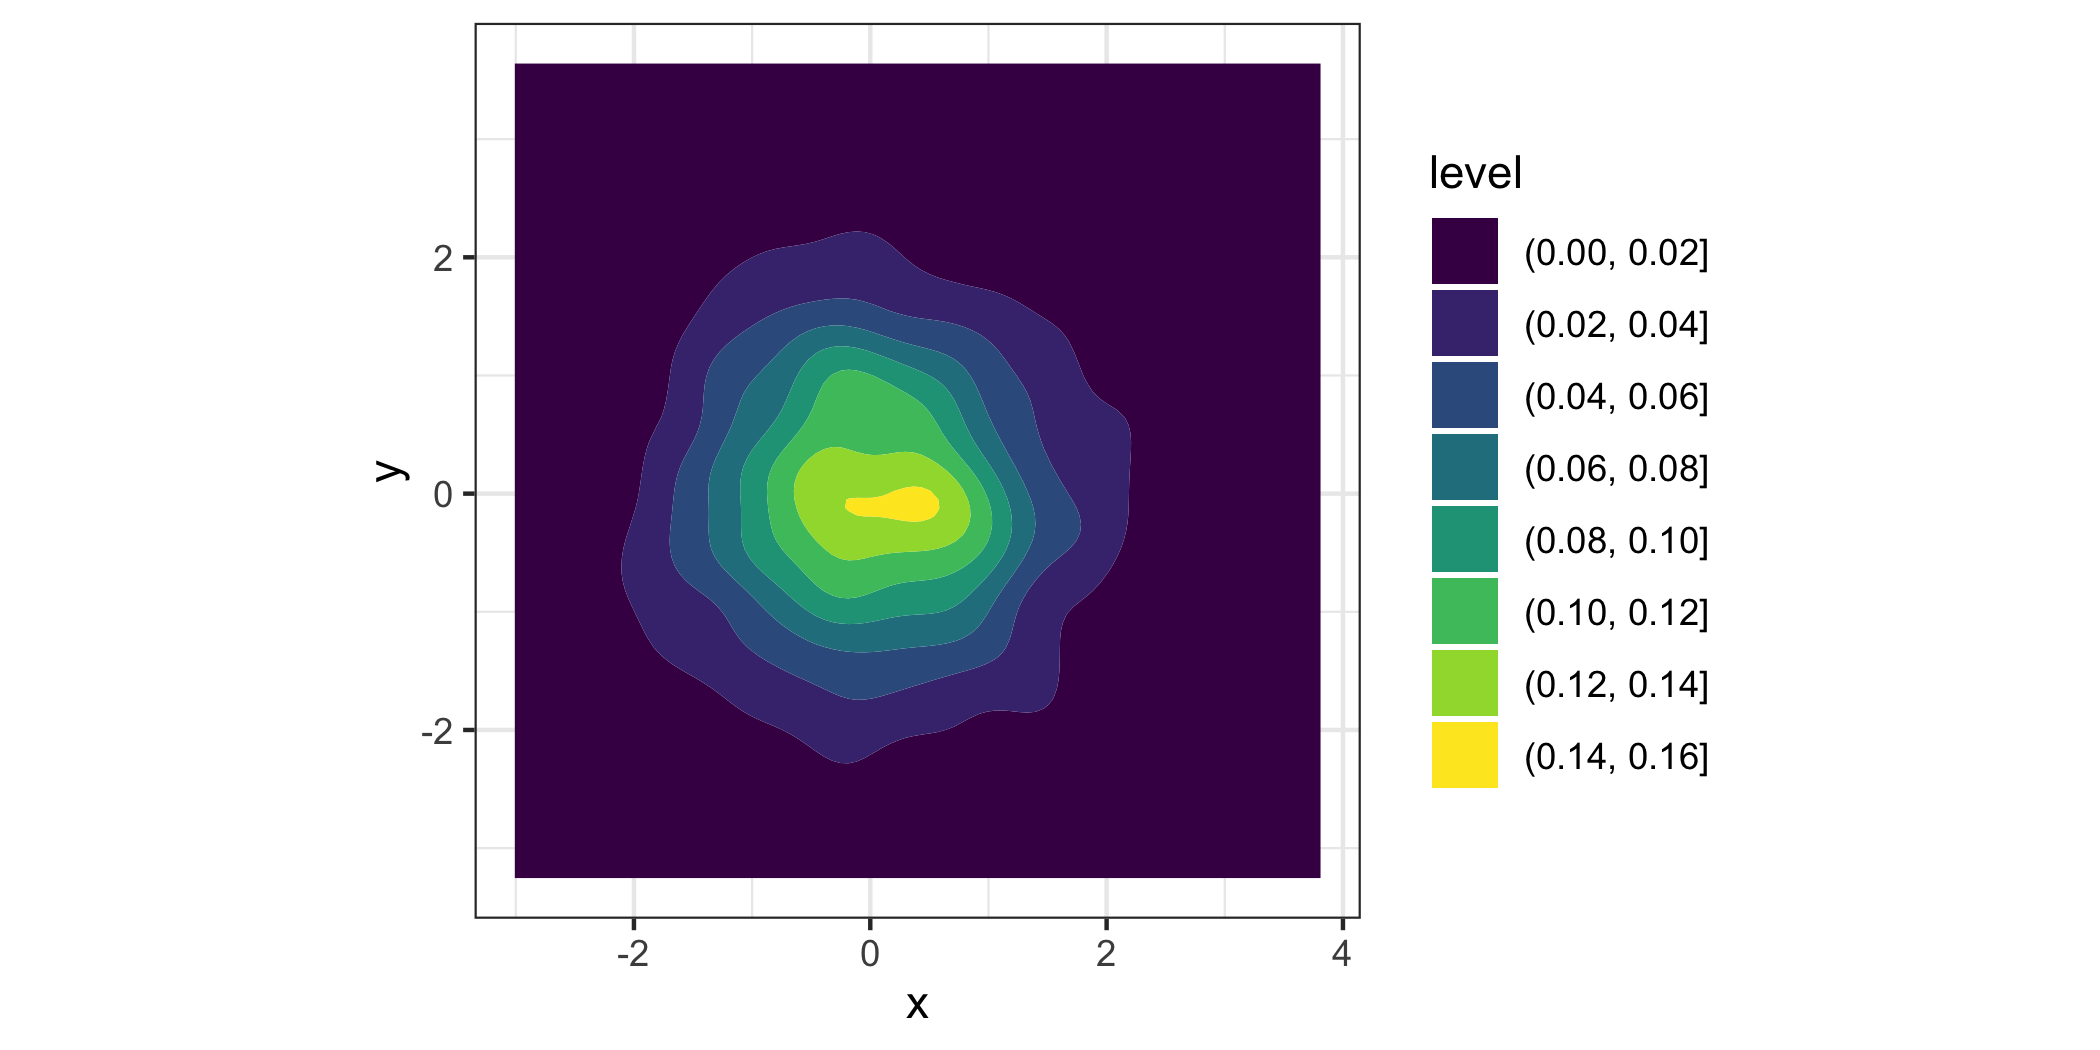
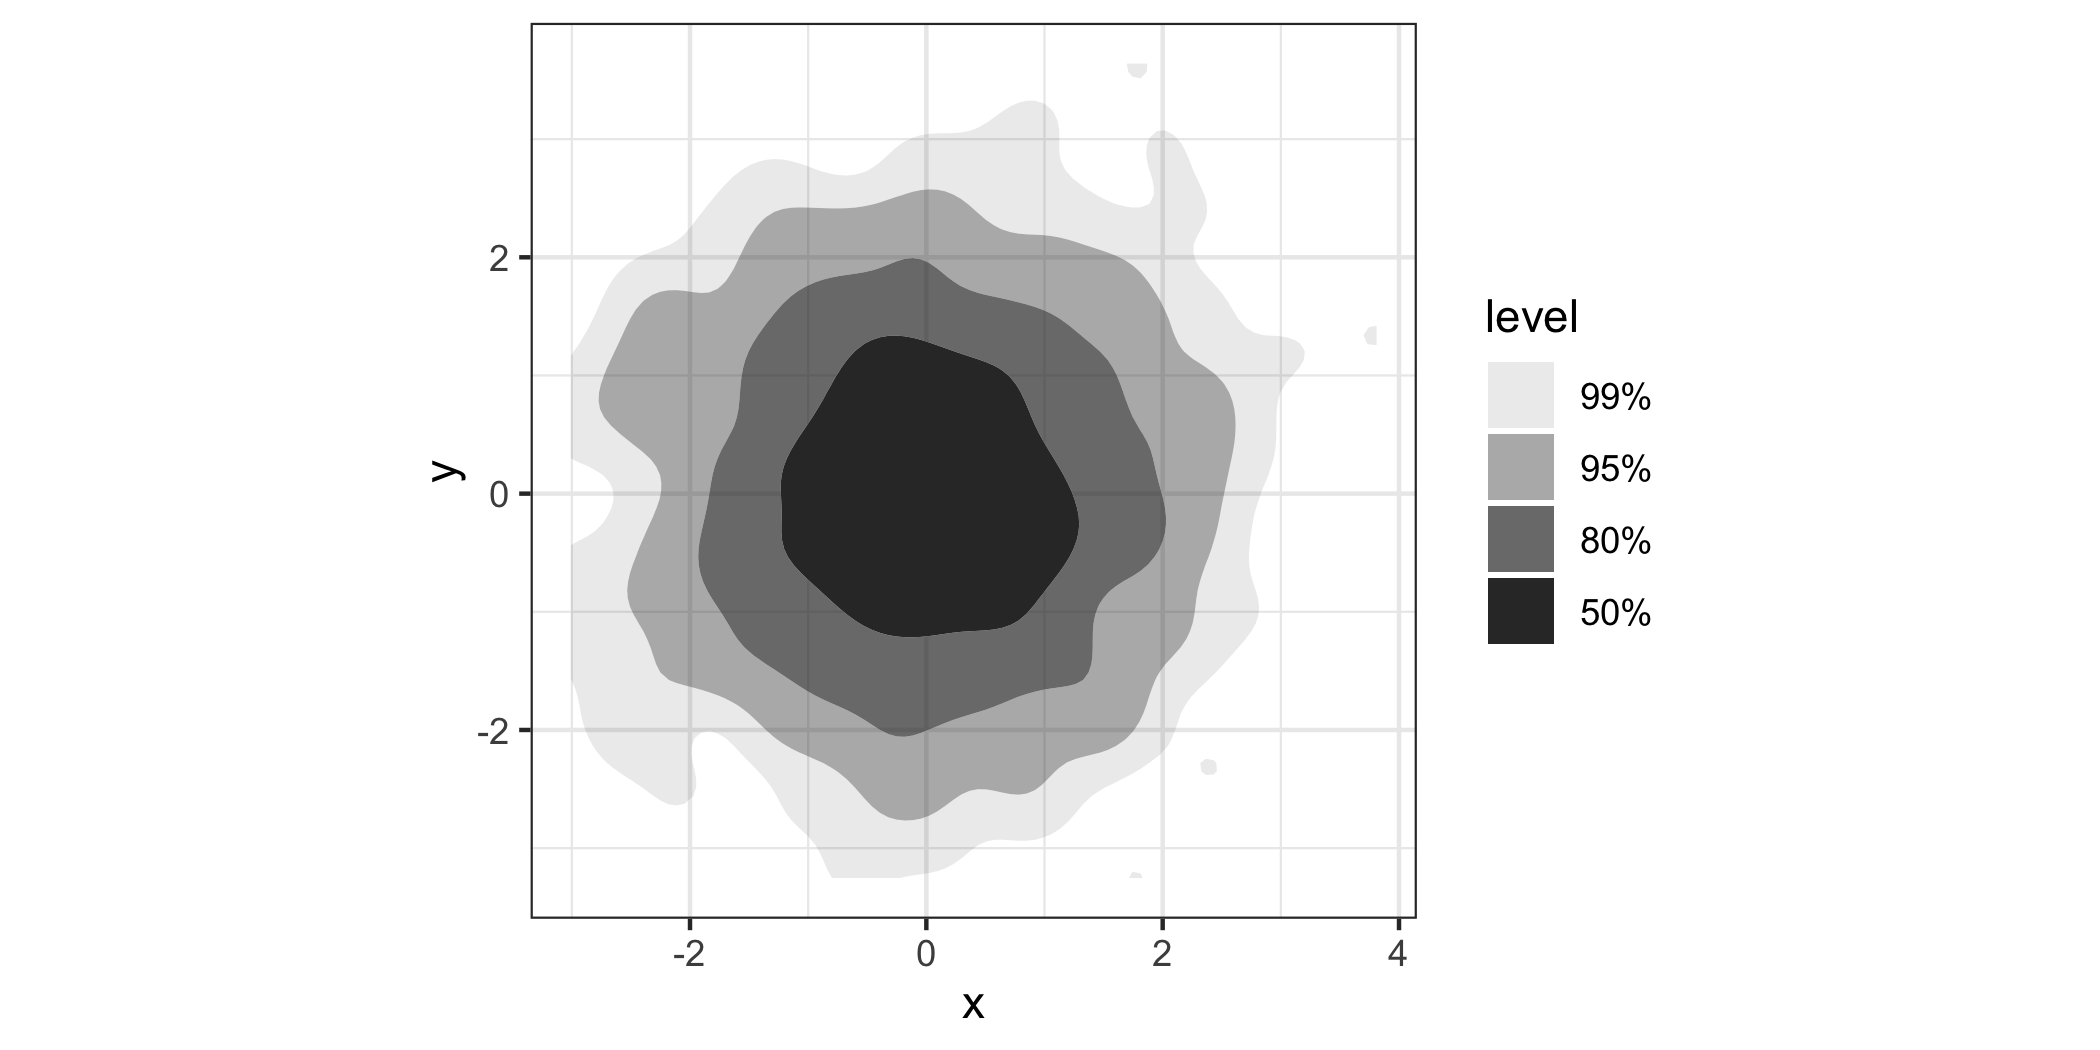
simplify readme language

diff --git a/README.md b/README.md
@@ -16,8 +16,10 @@ interpretable visualizations of density estimates based on highest
 density regions (HDRs). **ggdensity** offers drop-in replacements for
 [**ggplot2**](https://github.com/tidyverse/ggplot2) functions:
 
--   `geom_hdr()` ↔ `geom_contour_2d_filled()`
--   `geom_hdr_lines()` ↔ `geom_contour_2d()`
+-   instead of `ggplot2::geom_contour_2d_filled()`, use
+    `ggdensity::geom_hdr()`;
+-   instead of `ggplot2::geom_contour_2d()`, use
+    `ggdensity::geom_hdr_lines()`.
 
 Also included are the functions `geom_hdr_fun()` and
 `geom_hdr_fun_lines()` for plotting HDRs of user-specified bivariate
@@ -25,27 +27,25 @@ probability density functions.
 
 ## Installation
 
-You can install the development version of **ggdensity** from
-[GitHub](https://github.com/) with:
+**ggdensity** isn’t on CRAN yet, but you can install its development
+version from [GitHub](https://github.com/) with:
 
 ``` r
 if (!requireNamespace("remotes")) install.packages("remotes")
 remotes::install_github("jamesotto852/ggdensity")
 ```
 
+Since it’s not on CRAN yet, the implementation interface may shift a
+bit, but we feel it’s stable enough to share with you now, so don’t
+expect big changes.
+
 ## Simple Examples
 
-#### Comparing to `geom_contour_2d()`
+#### `ggplot2::geom_contour_2d()` vs. `ggdensity::geom_hdr()`
 
-Below, we plot density estimates of some simulated data using
-`geom_density_2d_filled()` (left) and `geom_hdr()` (right). Both plots
-show contours from the same density surface, but the contours plotted by
-`geom_hdr()` are chosen to be inferentially relevant, showing the
-smallest regions containing 50%, 80%, 95%, and 99% of the estimated
-density (the HDRs). This results in a very interpretable graphic,
-conveying more information than arbitrary density contours.
-
-<!-- ```{r ex1, fig.show="hold", out.width="100%"} -->
+The standard way to visualize the joint distribution of two continuous
+variables in **ggplot2** is to use `geom_density_2d()` or
+`geom_density_2d_filled()`. Here’s an example:
 
 ``` r
 library("ggplot2"); theme_set(theme_bw())
@@ -53,29 +53,56 @@ library("ggdensity")
 
 df <- data.frame("x" = rnorm(1000), "y" = rnorm(1000))
 p <- ggplot(df, aes(x, y)) + coord_equal()
-
 p + geom_density_2d_filled()
 ```
 
-<img src="man/figures/README-ex1-1.png" width="100%" />
+<img src="man/figures/README-ex0-1.png" width="100%" />
+
+While it’s a nice looking plot, it isn’t immediately clear how we should
+understand it. That’s because `geom_density_2d_filled()` generates its
+contours as equidistant level sets of the estimated bivariate density,
+i.e. taking horizontal slices of the 3d surface at equally-spaced
+heights, and projecting the intersections down into the plane. So you
+get a general feel of where the density is high, but not much else. To
+interpret a contour, you would need to multiply its height by the area
+it bounds, which of course is very challenging to do by just looking at
+it.
+
+`geom_hdr()` tries to get around this problem by presenting you with
+regions of the estimated distribution that are immediately
+interpretable:
 
 ``` r
 p + geom_hdr()
 ```
 
-<img src="man/figures/README-ex1-2.png" width="100%" />
+<img src="man/figures/README-ex1-1.png" width="100%" />
 
-<!-- p_ggplot    <- ggplot(df, aes(x, y)) + geom_density_2d_filled() -->
-<!-- p_ggdensity <- ggplot(df, aes(x, y)) + geom_hdr() -->
-<!-- p_ggplot + p_ggdensity -->
+`level` here tells us the probability bounded by the corresponding
+region, and the regions are computed to be the smallest such regions
+that bound that level of probability; these are called highest density
+regions or HDRs. By default, the plotted regions show the 50%, 80%, 95%,
+and 99% HDRs of the estimated density, but this can be changed with the
+`probs` argument to `geom_hdr()`. Notice that your take-away from the
+plot made with `geom_density_2d_filled()` is subtlely yet significantly
+different than that of the plot made by `geom_hdr()`.
 
-#### Grouping
+#### Visualizing subpopulations and `geom_hdr_lines()`
 
-Because `geom_hdr()` maps to the `alpha` aesthetic, the `fill` and
-`color` aesthetics are available for mapping to variables. This allows
-for easy comparison of HDRs between groups in a data set, below we
-illustrate this with the `penguins` data from
-[**palmerpenguins**](https://github.com/allisonhorst/palmerpenguins).
+**ggdensity**’s functions were designed to be seamlessly consistent with
+the rest of the **ggplot2** framework. As a consequence, pretty much
+everything you would expect to just work does. (Well, we hope! [Let us
+know](https://github.com/jamesotto852/ggdensity/issues/new) if that’s
+not true.)
+
+For example, because `geom_hdr()` maps probability to the `alpha`
+aesthetic, the `fill` and `color` aesthetics are available for mapping
+to variables. You can use them to visualize subpopulations in your data.
+For example, in the `penguins` data from
+[**palmerpenguins**](https://github.com/allisonhorst/palmerpenguins) you
+may want to look at how the relationship between bill length and flipper
+length changes across different species of penguins. Here’s one way you
+could look at that:
 
 ``` r
 library("palmerpenguins")
@@ -91,7 +118,8 @@ ggplot(penguins, aes(flipper_length_mm, bill_length_mm, fill = species)) +
 
 </div>
 
-To alleviate overplotting, we can use `geom_hdr_lines()` or facet:
+Nice, but a bit overplotted. To alleviate overplotting, we can use
+`geom_hdr_lines()`:
 
 ``` r
 ggplot(penguins, aes(flipper_length_mm, bill_length_mm, color = species)) +
@@ -100,6 +128,8 @@ ggplot(penguins, aes(flipper_length_mm, bill_length_mm, color = species)) +
 ```
 
 <img src="man/figures/README-ex_penguins_lines-1.png" width="100%" />
+
+Or you could facet the plot:
 
 <div style="height:40px;">
 
@@ -114,21 +144,28 @@ ggplot(penguins, aes(flipper_length_mm, bill_length_mm, fill = species)) +
 
 <img src="man/figures/README-ex_penguins_facet-1.png" width="100%" />
 
-## More Examples
+The main point here is that you should really think of `geom_hdr()` and
+`geom_hdr_lines()` as drop-in replacements for functions like
+`geom_density_2d_filled()`, `geom_density2d()`, and so on, and you can
+expect all of the rest of the **ggplot2** stuff to just work.
 
-#### Mapping to different aesthetics
+#### A deeper cut illustrating **ggplot2** integration
 
-`geom_hdr()` and `geom_hdr_lines()` map the computed variable `level` to
-the `alpha` aesthetic by default. This is easy to change via
-`after_stat()`, just be sure to override the `alpha` aesthetic by
-setting `alpha = 1`.
+The underlying stat used by `geom_hdr()` creates the computed variable
+`level` that can be mapped in the standard way you map computed
+variables in **ggplot2**, with `after_stat()`.
+
+For example, `geom_hdr()` and `geom_hdr_lines()` map `level` to the
+`alpha` aesthetic by default. But you can override it like this, just be
+sure to override the `alpha` aesthetic by setting `alpha = 1`.
 
 ``` r
 ggplot(faithful, aes(eruptions, waiting)) +
   geom_hdr(
     aes(fill = after_stat(level)), 
     alpha = 1, xlim = c(0, 8), ylim = c(30, 110)
-  )
+  ) +
+  scale_fill_viridis_d()
 ```
 
 <img src="man/figures/README-ex_after_stat-1.png" width="100%" />
@@ -138,35 +175,43 @@ ggplot(faithful, aes(eruptions, waiting)) +
   geom_hdr_lines(
     aes(color = after_stat(level)), 
     alpha = 1, xlim = c(0, 8), ylim = c(30, 110)
-  )
+  ) +
+  scale_color_viridis_d()
 ```
 
 <img src="man/figures/README-ex_after_stat-2.png" width="100%" />
 
-#### Different density estimators
+#### Statistics details
 
-Just like `geom_density_2d_filled()`, `geom_hdr()` allows for
-visualizing kernel density estimates. It also allows for visualizing
-HDRs resulting from parametric, histogram, and frequency polygon
-estimates via the `method` argument. Each of these estimators offers
+In addition to trying to make the visuals clean and the functions what
+you would expect as a **ggplot2** user, we’ve spent considerable effort
+in trying to ensure that the graphics you’re getting with **ggdensity**
+are statistically rigorous and provide a range of estimation options for
+more detailed control.
+
+To that end, you can pass a `method` argument into `geom_hdr()` and
+`geom_hdr_lines()` that allows you to specify various nonparametric and
+parametric ways to estimate the underlying bivariate distribution, and
+we have plans for even more. Each of the estimators below offers
 advantages in certain contexts. For example, histogram estimators result
-in HDRs which obey constrained supports.
+in HDRs that obey constrained supports. Normal estimators can be helpful
+in providing simplified visuals that give the viewer a sense of where
+the distributions are, potentially at the expense of over-simplifying
+and removing important features of how the variables (co-)vary.
 
 <img src="man/figures/README-ex_methods-1.png" width="100%" />
 
-<!-- #### Bayesian applications -->
-<!-- In the context of a Bayesian analysis, `geom_hdr()` creates plots of highest posterior regions. -->
-<!-- All we need to do is give `geom_hdr()` a data frame with draws from a posterior, and  -->
+## If you know your PDF
 
-## Plotting HDRs for abitrary pdfs with `geom_hdr_fun()`
-
-`geom_hdr_fun()` and `geom_hdr_fun_lines()` compute and plot the HDRs of
-an arbitrary bivariate pdf. These functions behave similarly to
-`geom_function()` from
+The above discussion has focused around densities that are estimated
+from data. But in some instances, you have the distribution in the form
+of a function that encodes the [joint
+PDF](https://en.wikipedia.org/wiki/Probability_density_function). In
+those circumstances, you can use `geom_hdr_fun()` and
+`geom_hdr_fun_lines()` to make the analogous plots. These functions
+behave similarly to `geom_function()` from
 [**ggplot2**](https://github.com/tidyverse/ggplot2), accepting the
-argument `fun` specifying the pdf to be summarized. Below, we have
-illustrated this by plotting HDRs corresponding to the bivariate
-standard normal distribution.
+argument `fun` specifying the pdf to be summarized. Here’s an example:
 
 ``` r
 f <- function(x, y) dnorm(x) * dnorm(y)
@@ -178,29 +223,54 @@ ggplot() +
 
 <img src="man/figures/README-ex_hdr_fun_1-1.png" width="100%" />
 
-#### Visualizing parametric density estimates with `geom_hdr_fun()`
+<!-- Discuss un-normalized densities here with example of posteriors -->
+<!-- In the context of a Bayesian analysis, `geom_hdr()` creates plots of highest posterior regions. -->
+<!-- All we need to do is give `geom_hdr()` a data frame with draws from a posterior, and  -->
+
+#### Visualizing custom parametric density estimates with `geom_hdr_fun()`
 
 In addition to all of the methods of density estimation available with
-`geom_hdr()`, `geom_hdr_fun()` allows for the plotting of parametrically
-estimated HDRs corresponding to any user-specified data model. Below, we
-have found the MLE estimates for the rates of a sample from the
-bivariate exponential distribution and used `geom_hdr_fun()` to plot the
-parametrically estimated HDRs.
+`geom_hdr()`, one of the perks of having `geom_hdr_fun()` is that it
+allows you to plot parametric densities that you estimate outside the
+**ggdensity** framework. The basic idea is that you fit your
+distribution outside **ggdensity** calls with your method of choice, say
+maximum likelihood, and then plug the maximum likelihood estimate into
+the density formula to obtain a function to plug into `geom_hdr_fun()`.
+
+Here’s an example of how you can do that that assuming that the
+underlying data are independent exponentially distributions with unknown
+rates.
 
 ``` r
-df <- data.frame("x" = rexp(1000, 1), "y" = rexp(1000, 1))
+set.seed(123)
+th <- c(3, 5)
+df <- data.frame("x" = rexp(1000, th[1]), "y" = rexp(1000, th[2]))
 
-# pdf for parametric density estimate
-f <- function(x, y, lambda) dexp(x, lambda[1]) * dexp(y, lambda[2])
+# construct the likelihood function
+l <- function(th) {
+  log_liks <-apply(df, 1, function(xy) {
+    dexp(xy[1], rate = th[1], log = TRUE) +
+    dexp(xy[2], rate = th[2], log = TRUE)
+  })
+  sum(log_liks)
+}
 
-# estimate parameters governing joint pdf
-lambda_hat <- apply(df, 2, mean)
+# compute the mle
+(th_hat <- optim(c(2, 2), l, control = list(fnscale = -1))$par)
+#> [1] 2.912736 5.032125
+
+# construct the parametric density estimate
+f <- function(x, y, th) dexp(x, th[1]) * dexp(y, th[2])
 
 # pass estimated density into geom_hdr_fun()
 ggplot(df, aes(x, y)) +
-  geom_hdr_fun(fun = f, args = list(lambda = lambda_hat)) +
-  geom_point(shape = 21, fill = "lightgreen") +
-  coord_fixed()
+  geom_hdr_fun(fun = f, args = list(th = th_hat)) +
+  geom_point(shape = 21, fill = "lightgreen", alpha = .25) +
+  coord_equal()
 ```
 
 <img src="man/figures/README-ex_hdr_fun_2-1.png" width="100%" />
+
+#### Stay tuned!
+
+We have a number of neat new features cooking. Check back soon!
